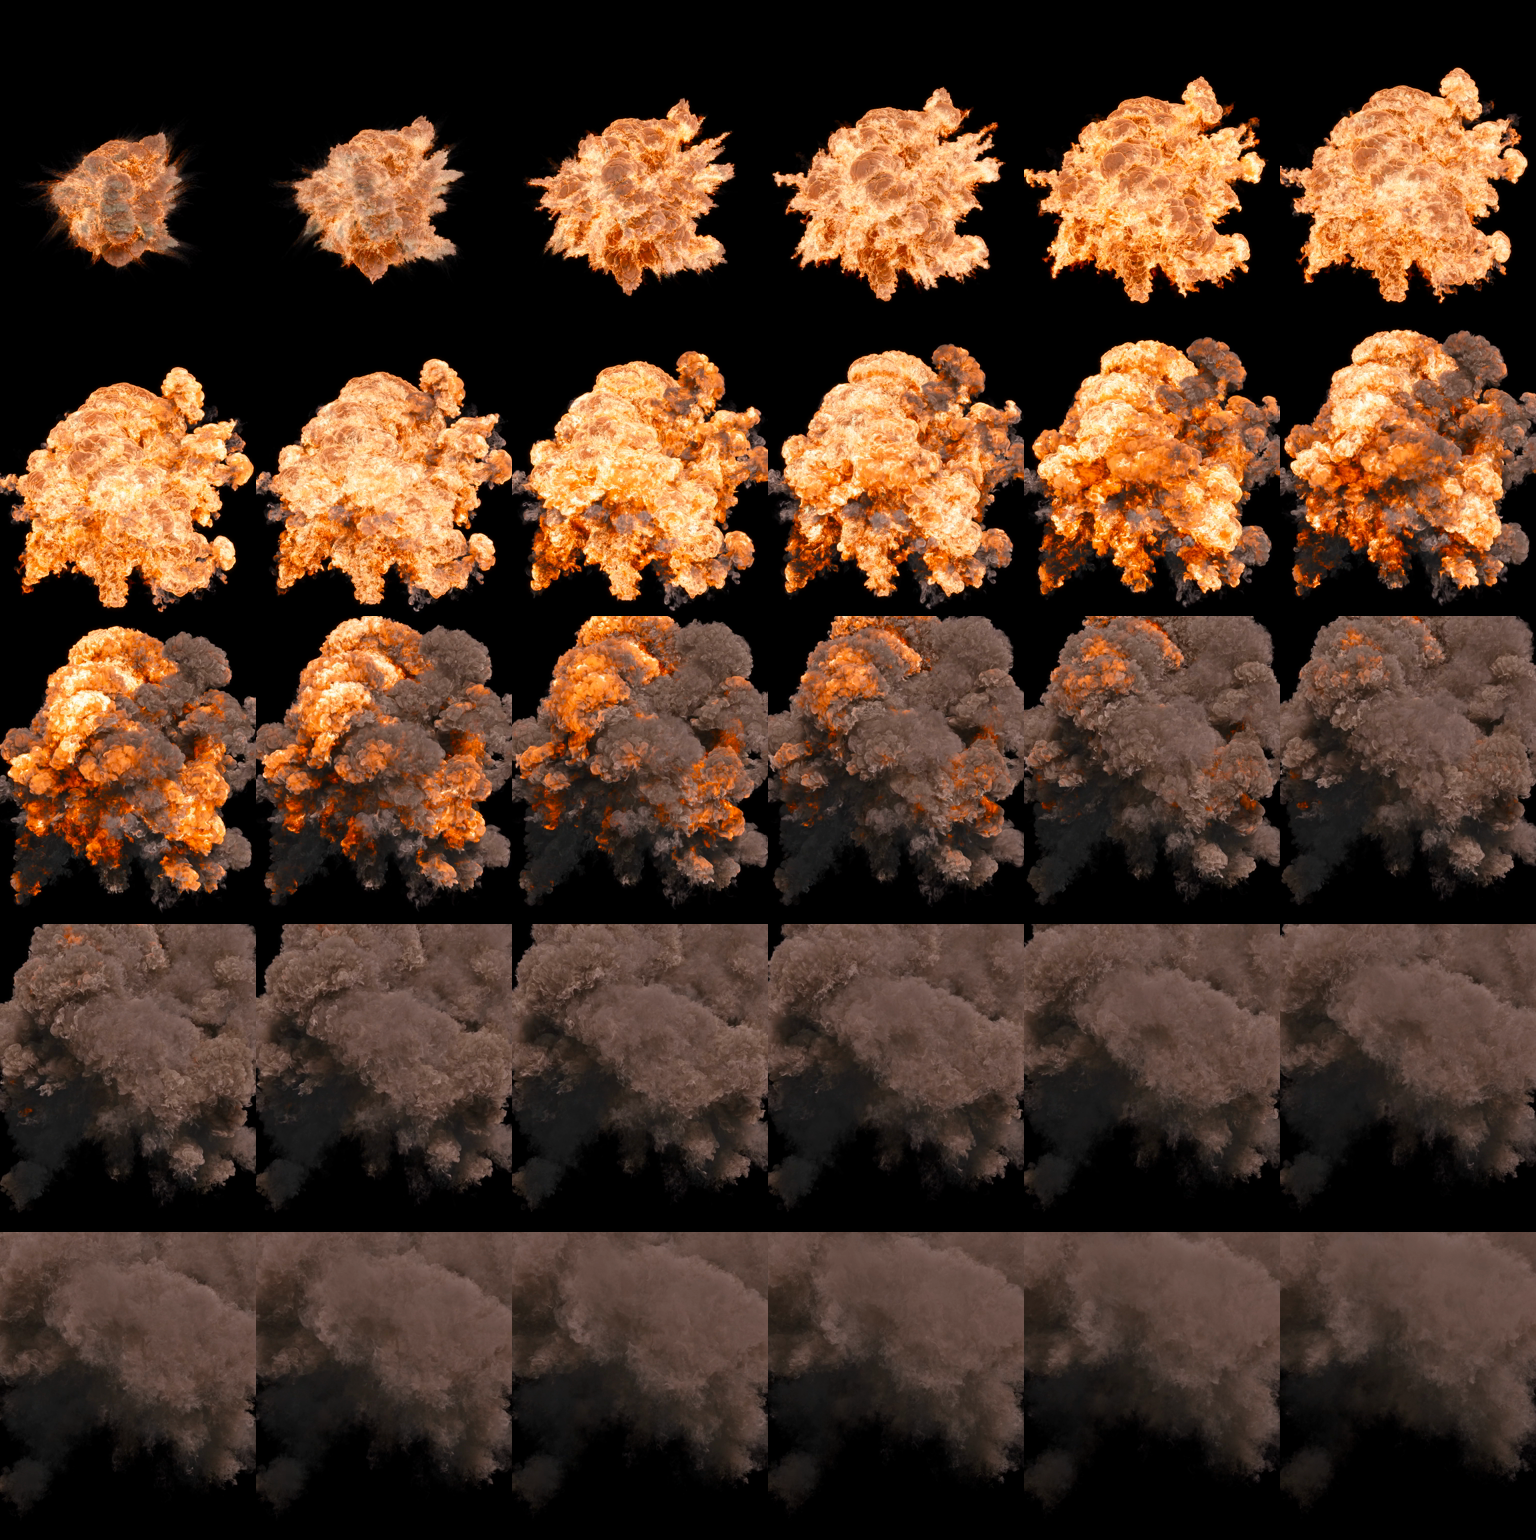
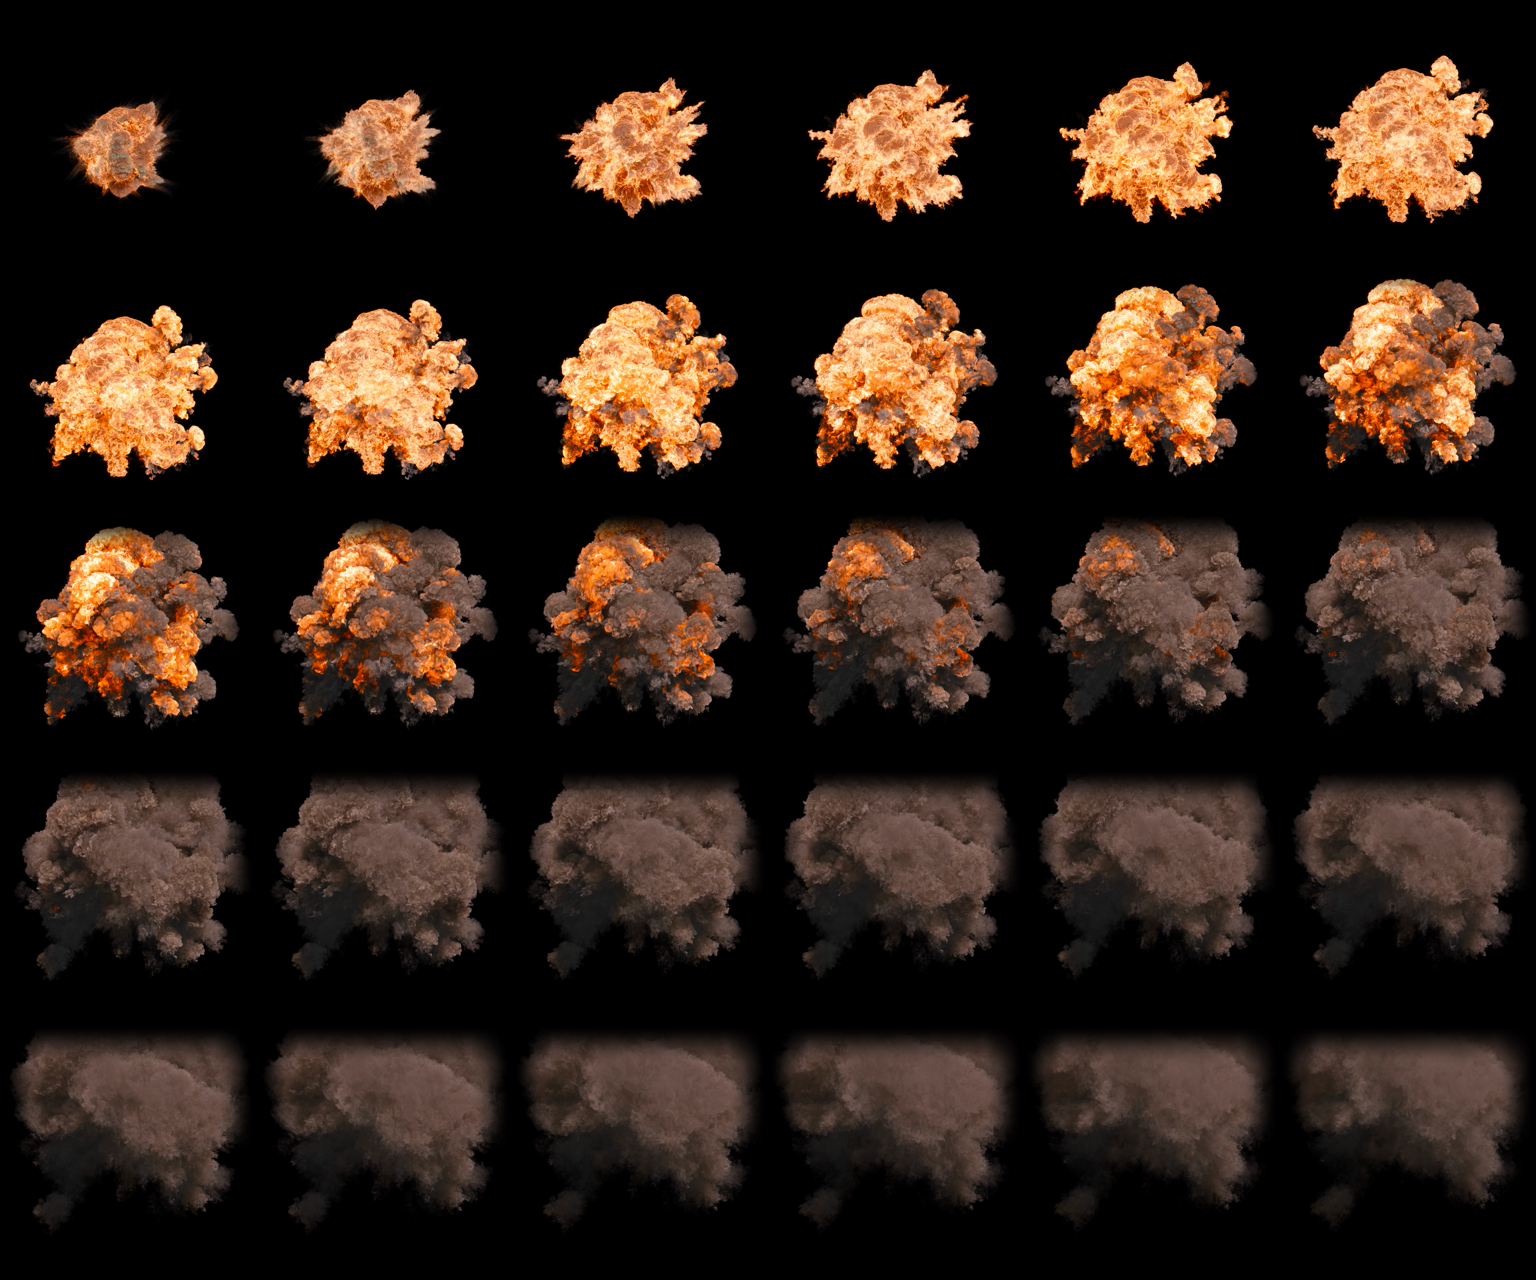
fx: explosion sheets — wider crop + soft edge falloff (no more hard rectangle)
Both explosion sheets clipped at the frame border, showing a rectangle
under additive blend. Re-cropped with breathing room and multiplied by a
smoothstep edge mask (fades to black over the outer 16%) so the blast
melts into the backglass. explosion2 cells now 256x256, fireball 256x273.

Claude-Session: https://claude.ai/code/session_013ybVQDBcQfNRHdYRQsne7z

diff --git a/src/lib/fx.ts b/src/lib/fx.ts
@@ -957,12 +957,12 @@ export const OVERLAY_LIBRARY: FxOverlayAsset[] = [
     json: { frames: { cols: 5, rows: 1, count: 5, fps: 0, random: true }, blend: "add", alpha: 1.0,
             trigger: "MSG_JACKPOT", duration_ms: 180, fade_ms: 60 } },
   { id: "explosion", label: "Explosion (fireball)", file: "fx/explosion_sheet.png", staticUrl: "/fx/explosion_sheet.png",
-    frameW: 256, frameH: 308,
+    frameW: 256, frameH: 273,
     // One-shot: 30 frames @16fps ≈ 1.9s — default trigger plays it through once.
     json: { frames: { cols: 6, rows: 5, count: 30, fps: 16 }, blend: "add", alpha: 1.0, pivot: [0.5, 0.6],
             trigger: "MSG_JACKPOT", duration_ms: 1900, fade_ms: 250 } },
   { id: "explosion2", label: "Explosion (bomb + smoke)", file: "fx/explosion2_sheet.png", staticUrl: "/fx/explosion2_sheet.png",
-    frameW: 256, frameH: 308,
+    frameW: 256, frameH: 256,
     json: { frames: { cols: 6, rows: 5, count: 30, fps: 10 }, blend: "add", alpha: 1.0, pivot: [0.5, 0.6],
             trigger: "MSG_MULTIBALL", duration_ms: 3000, fade_ms: 300 } },
   { id: "fireworks", label: "Fireworks (purple bursts)", file: "fx/fireworks_sheet.png", staticUrl: "/fx/fireworks_sheet.png",
